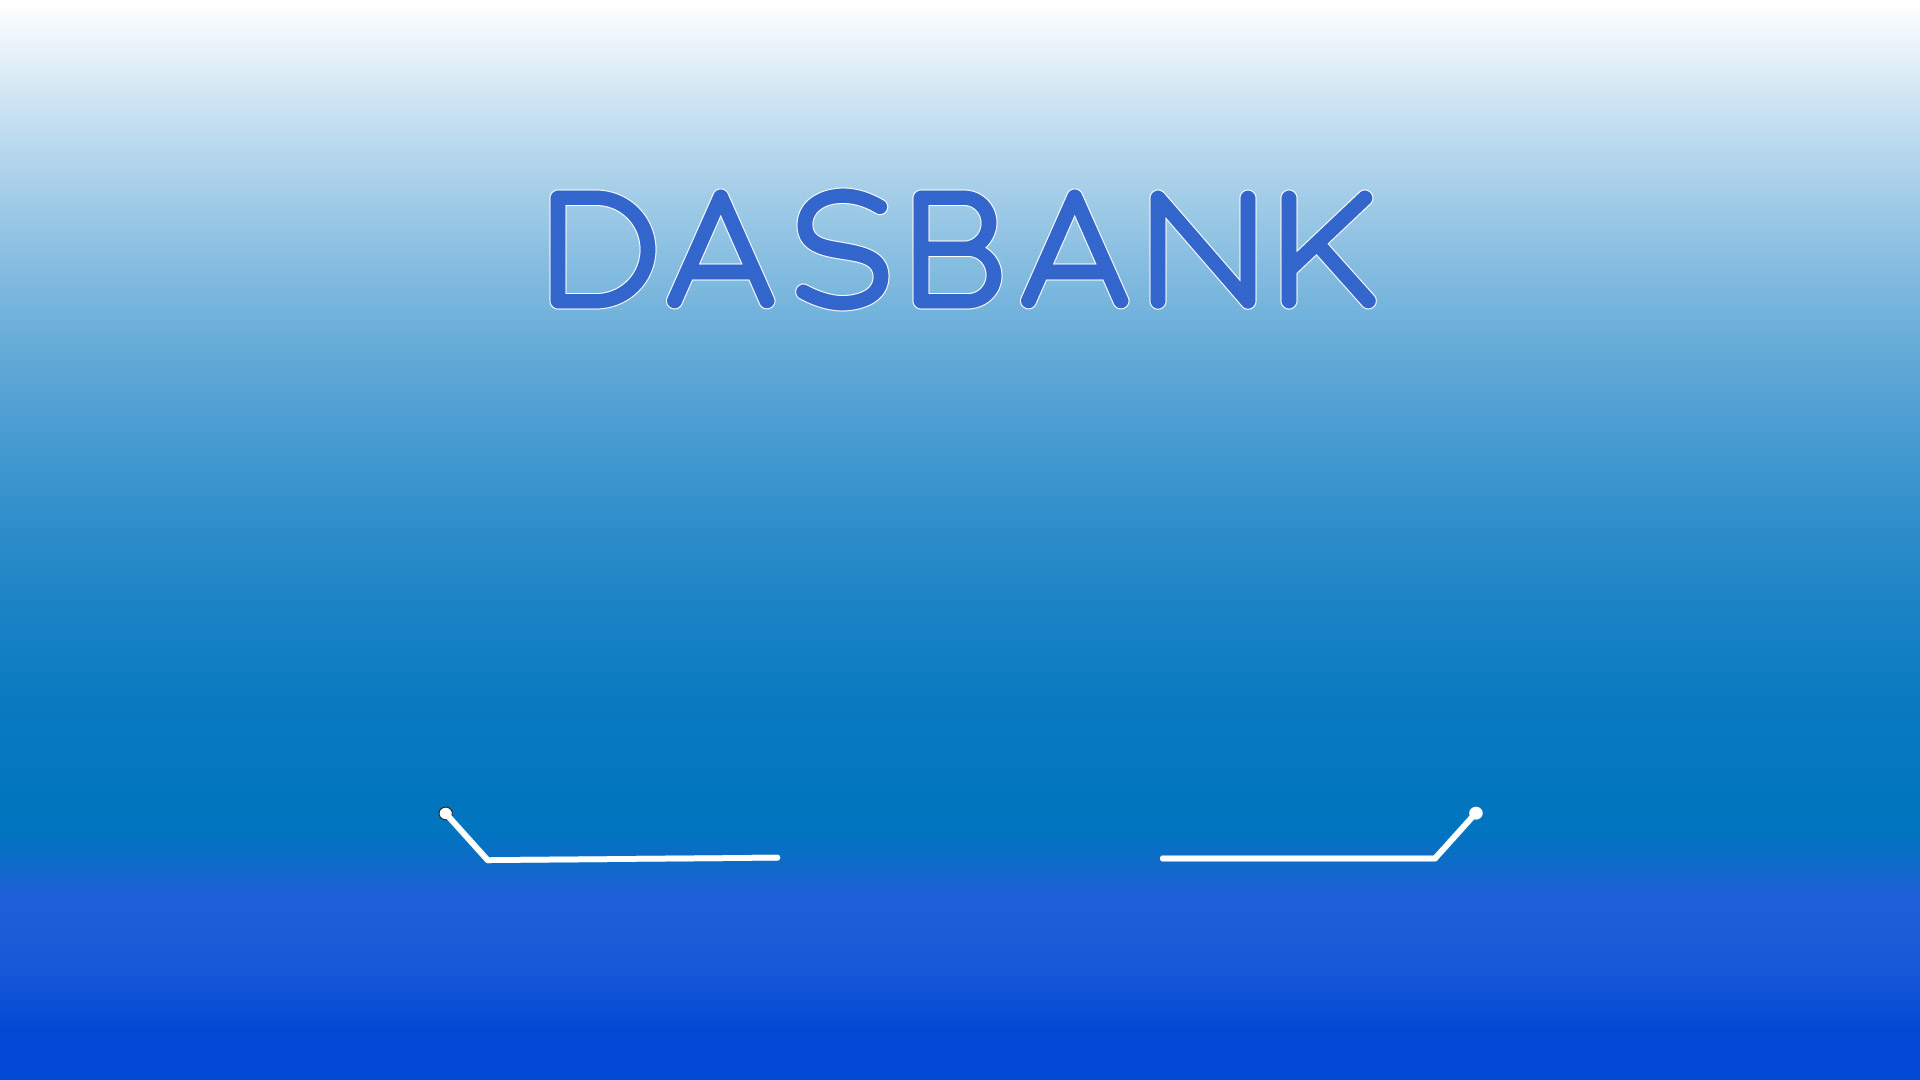
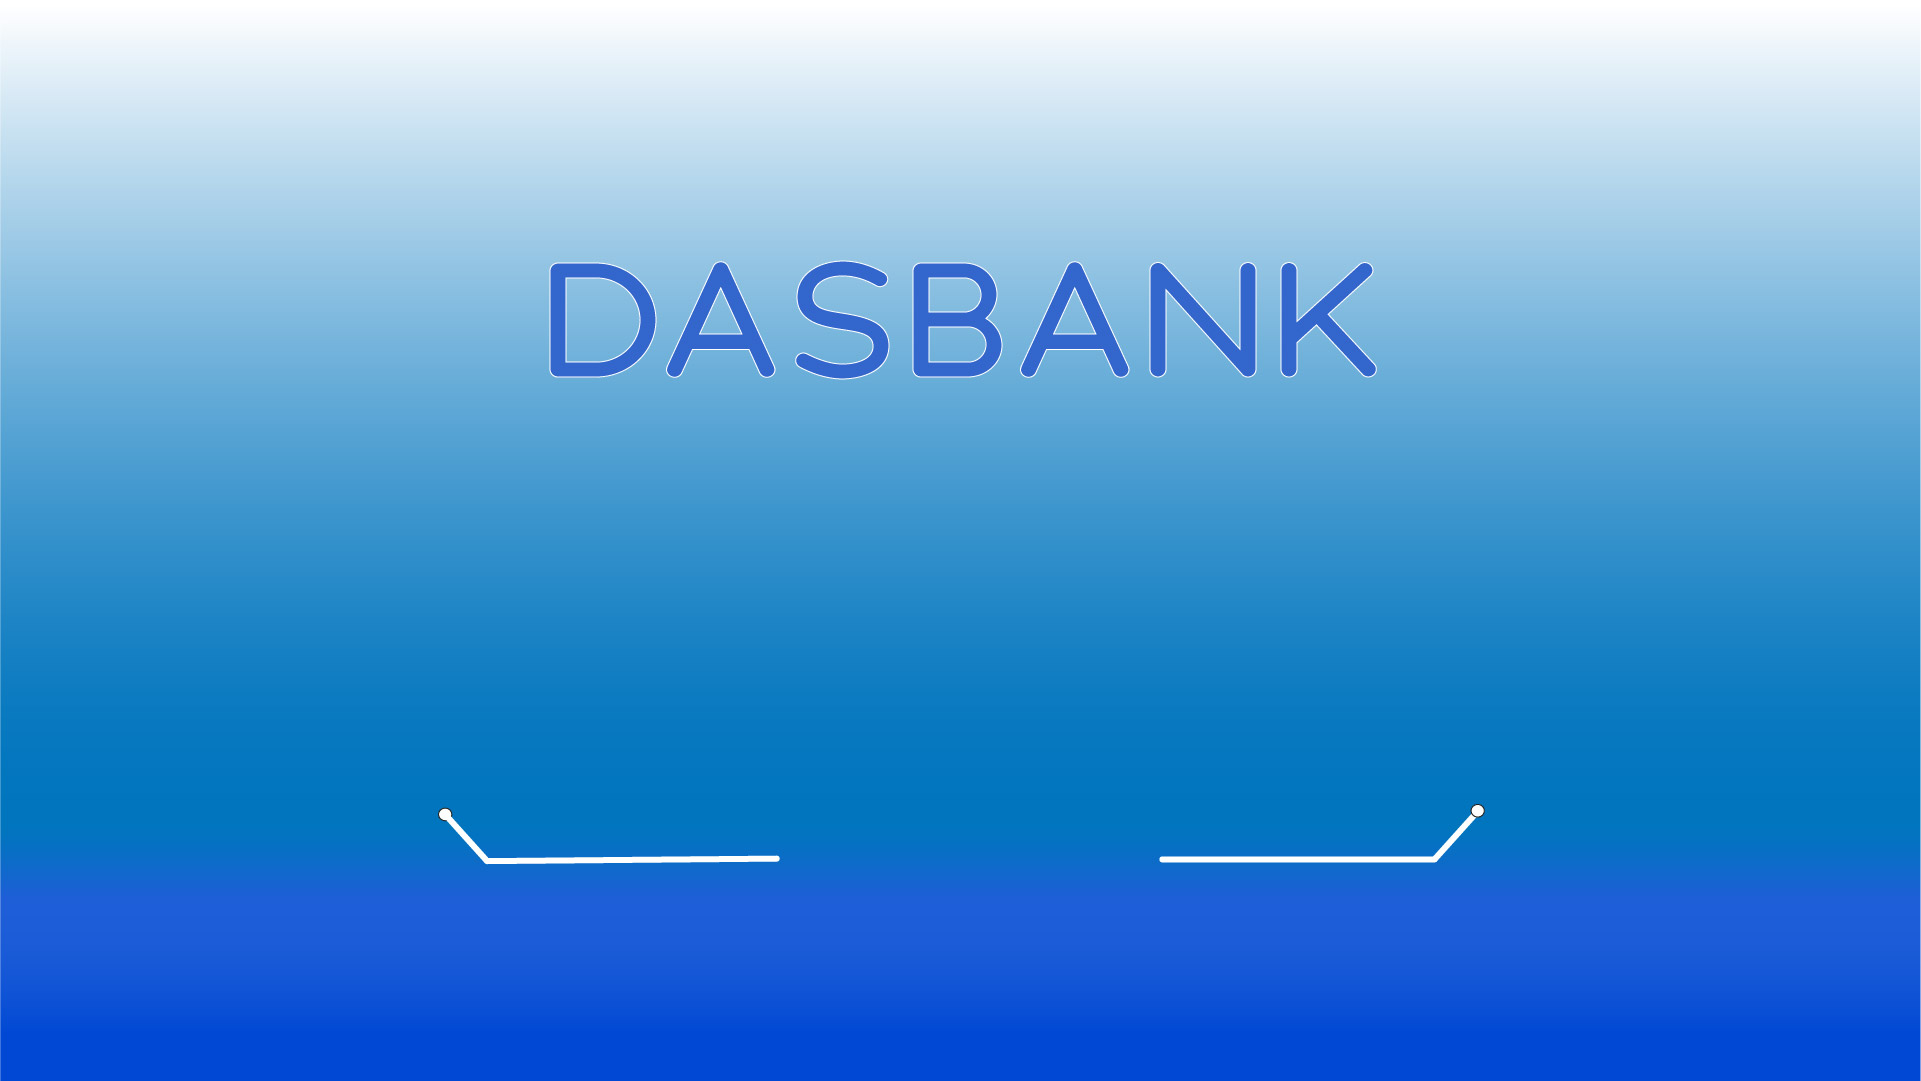
fixed background font and text color and fix css

Changed region(s): [[0.2812, 0.1528, 0.7188, 0.3667]]

diff --git a/client/gui/applicatie/src/main/resources/style/Main.css b/client/gui/applicatie/src/main/resources/style/Main.css
@@ -37,34 +37,31 @@
     -fx-background-radius: 15px;
     -fx-min-width: 150px;
     -fx-min-height: 100px;
-    -fx-background-color: linear-gradient(to right, #0041A3, #00009A);
+    -fx-background-color: #FFFFFF;
     -fx-padding: 0px;
     -fx-border-width: 4px;
     -fx-border-radius: 10px;
     -fx-border-color: white;
+    -fx-effect: dropshadow( gaussian , rgba(0,0,0,50) , 10,0,0,4 );
 }
 
 
 #saldo.field {
-    -fx-background-color: #000674;
+    -fx-background-color: white;
+    -fx-background-radius: 5px;
+    -fx-pref-height: 106px;
+    -fx-pref-width: 440px;
     -fx-border-width: 5px;
-    -fx-border-radius: 10px;
-    -fx-border-color: white;
-    -fx-text-fill: white;
 }
 
 #pin.field {
-    -fx-background-color: linear-gradient(to right, #00009A, #000674);
-    -fx-pref-height: 50px;
-    -fx-pref-width: 260px;
+    -fx-pref-height: 106px;
+    -fx-pref-width: 440px;
     -fx-border-width: 5px;
-    -fx-border-radius: 10px;
-    -fx-border-color: white;
-    -fx-text-fill: white;
 }
 
-bon.field {
-    -fx-background-color: #000674;
+#bon.field {
+    -fx-background-color: white;
     -fx-border-width: 5px;
     -fx-border-radius: 10px;
     -fx-border-color: white;

diff --git a/client/gui/applicatie/src/main/java/org/openjfx/BonController.java b/client/gui/applicatie/src/main/java/org/openjfx/BonController.java
@@ -24,6 +24,9 @@ public class BonController extends BaseController {
         try {
             if (key == '#') {
                 //bon  functie moet komen
+                switchToPasUit();
+
+
             }else if(key == '*'){
                 switchToPasUit();
             }
